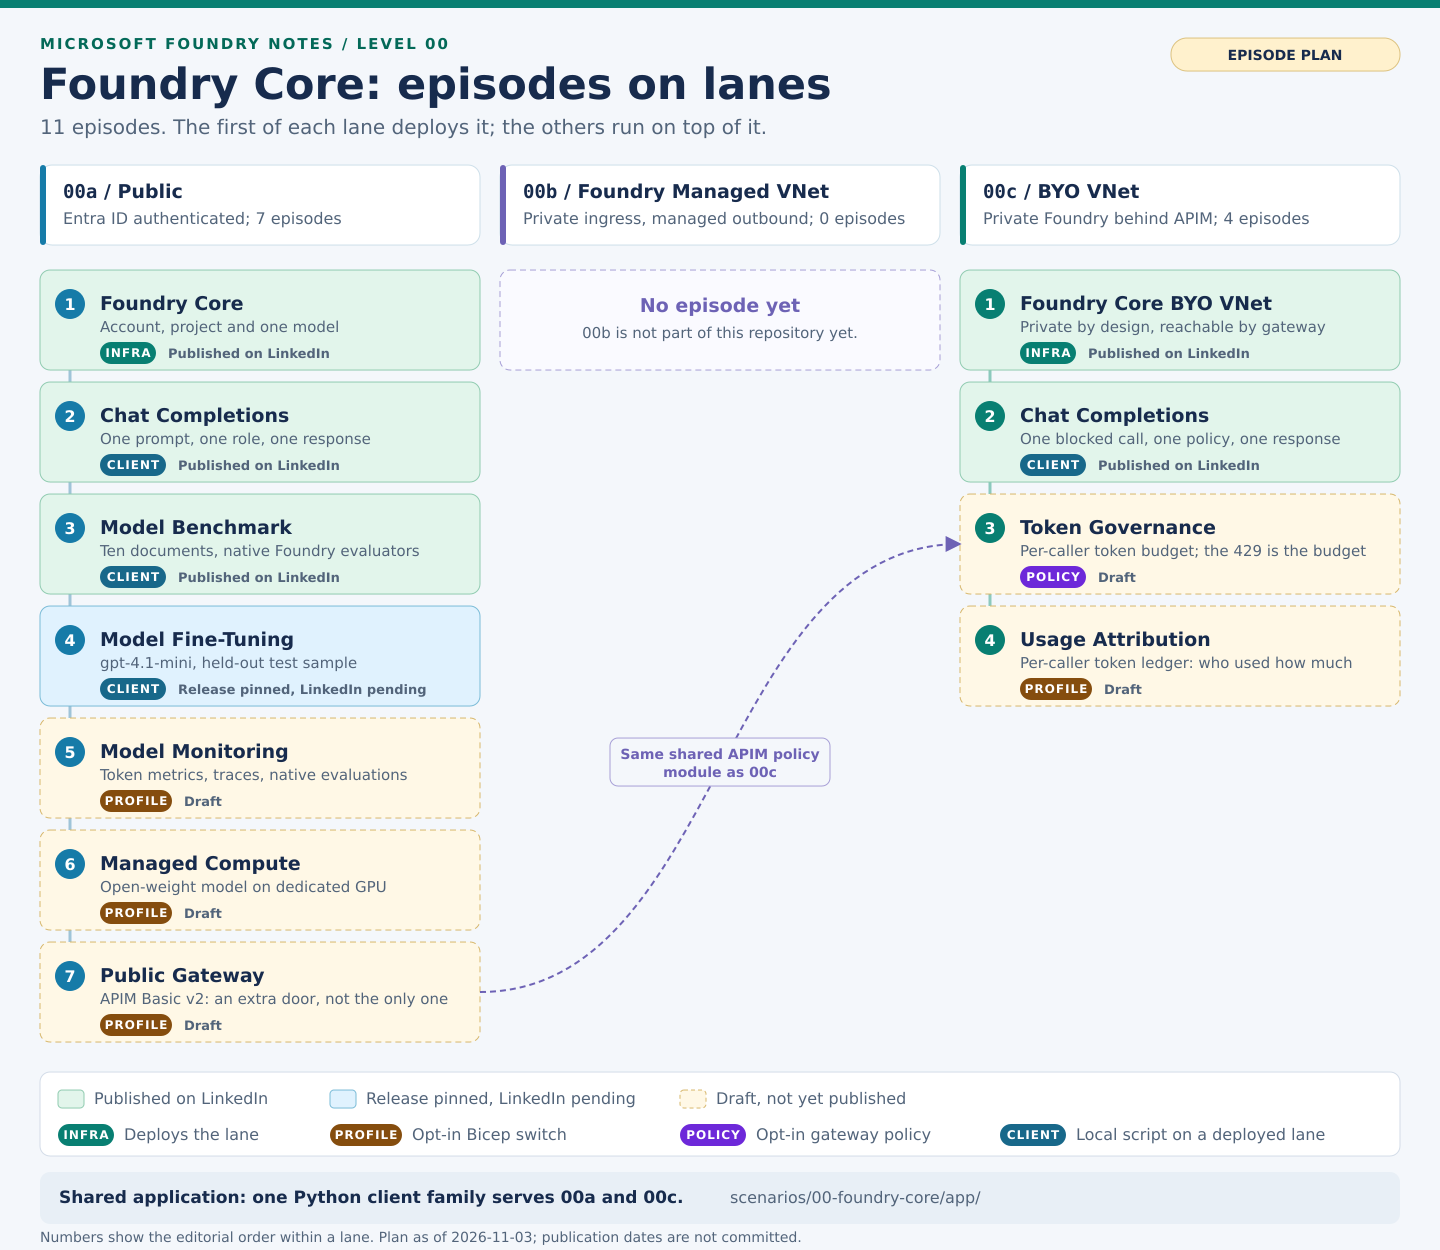
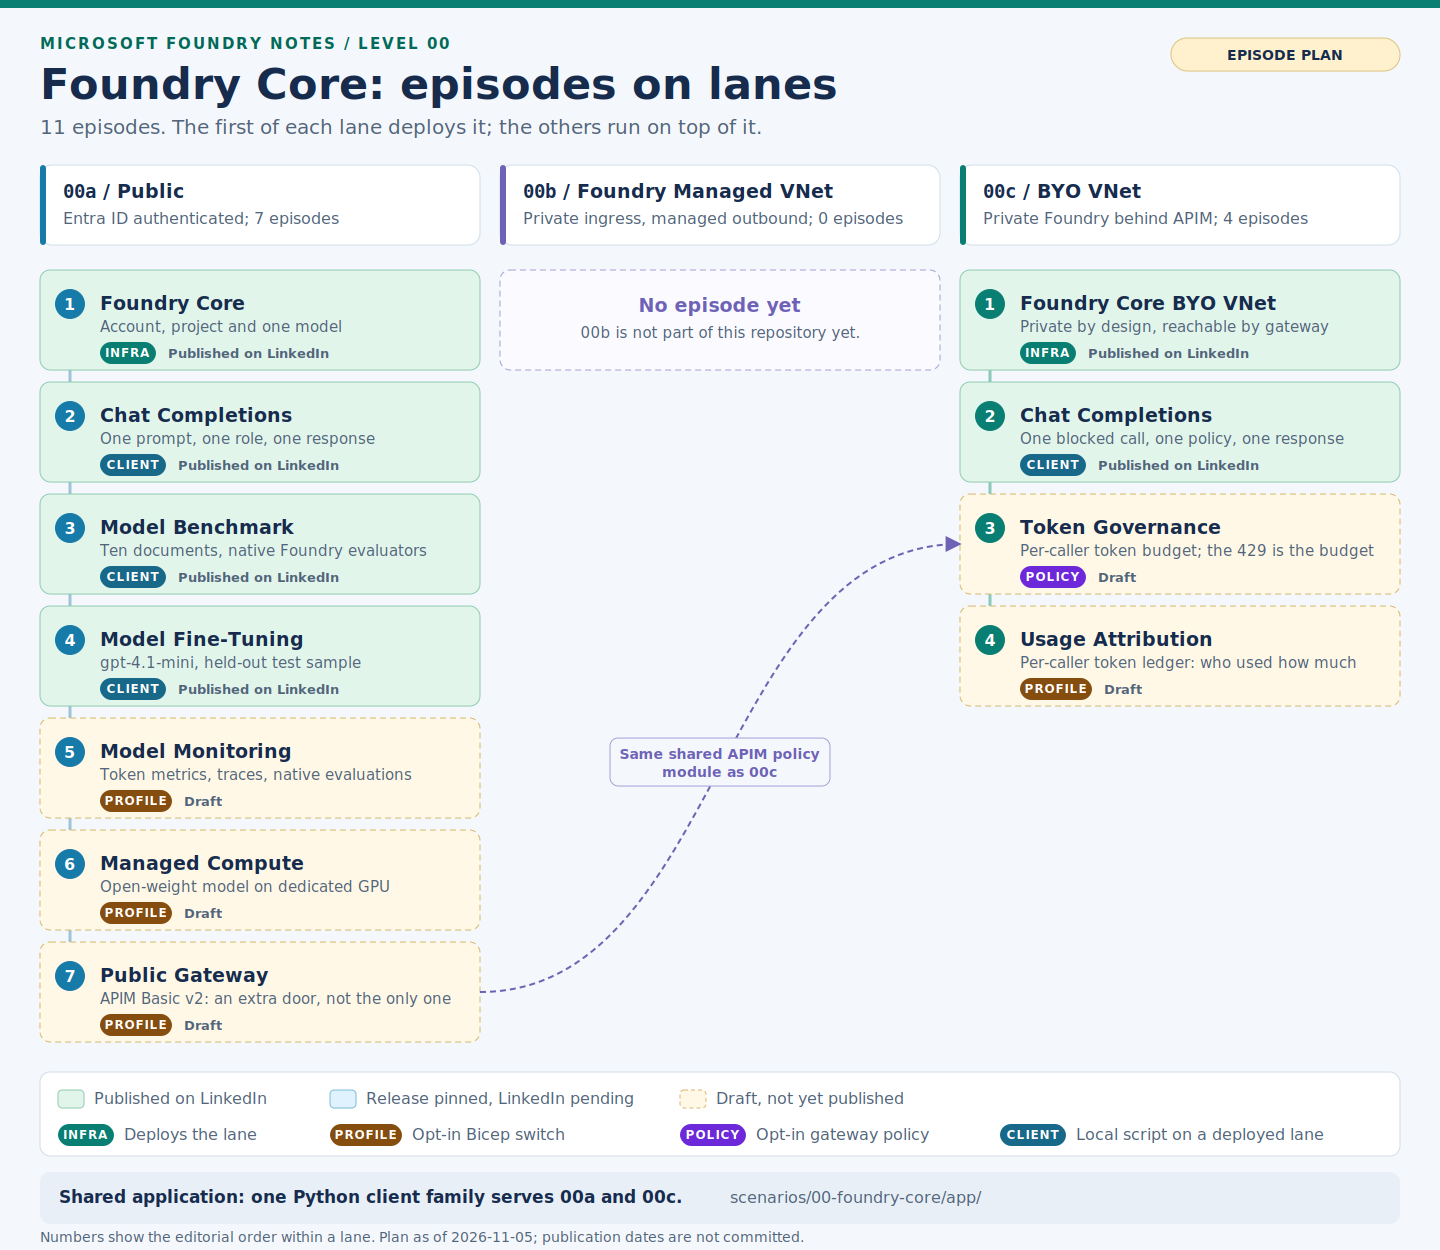
Mark 00a Model Fine-Tuning as published in the episode plan diagram

diff --git a/README.md b/README.md
@@ -65,7 +65,7 @@ dates are not committed and the order can change. A draft episode has no
 technical companion or pinned version in this repository yet; both appear here
 when its article is published.
 
-![Level 00 episode plan. Lane 00a has seven episodes: Foundry Core, Chat Completions, Model Benchmark and Model Fine-Tuning are published or about to be, while Model Monitoring, Managed Compute and Public Gateway are drafts. Lane 00c has four: Foundry Core BYO VNet and Chat Completions are published, Token Governance and Usage Attribution are drafts. Lane 00b has no episode yet. Public Gateway on 00a reuses the shared APIM policy module of 00c.](docs/images/level-00-episodes-map.png)
+![Level 00 episode plan. Lane 00a has seven episodes: Foundry Core, Chat Completions, Model Benchmark and Model Fine-Tuning are published, while Model Monitoring, Managed Compute and Public Gateway are drafts. Lane 00c has four: Foundry Core BYO VNet and Chat Completions are published, Token Governance and Usage Attribution are drafts. Lane 00b has no episode yet. Public Gateway on 00a reuses the shared APIM policy module of 00c.](docs/images/level-00-episodes-map.png)
 
 The diagram is also available as an editable
 [SVG](docs/images/level-00-episodes-map.svg).
